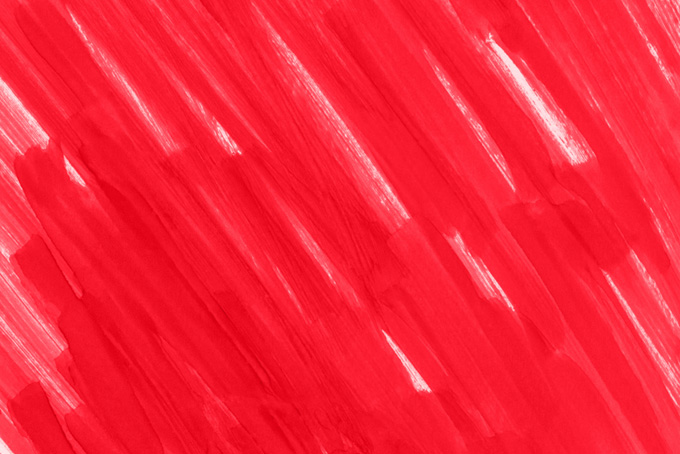
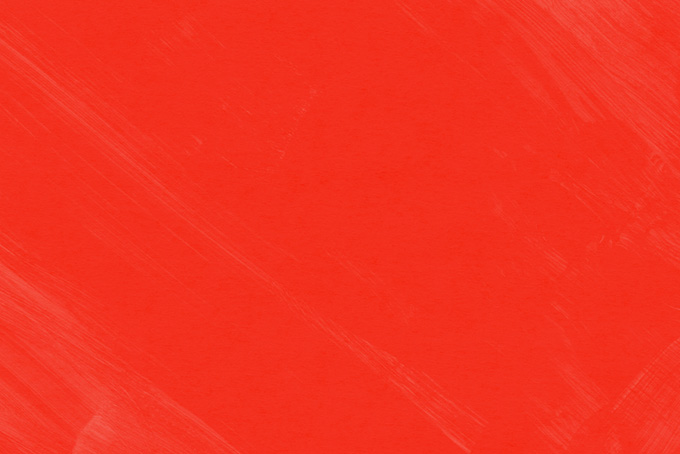
ダッシュ攻撃の時攻撃範囲の描画

diff --git a/project/Application/objectos/Enemy/Enemy.cpp b/project/Application/objectos/Enemy/Enemy.cpp
@@ -8,6 +8,8 @@ void Enemy::Initialize() {
 	animation_ = std::make_unique<Animations>();
 	animation_.reset(Animations::Create("resources/Enemy", "Atlas_Monsters.png", "Alien2.gltf"));
 	impactModel_.reset(Model::CreateModelFromObj("resources/Enemy/impact.obj", "resources/white.png"));
+	areaModel_.reset(Model::CreateModelFromObj("resources/particle/plane.obj", "resources/Enemy/red_.png"));
+	areaModel_->DirectionalLight({ 1.0f, 1.0f, 1.0f, 1.0f }, { 0.0f, 2.0f, 0.0f }, 1.0f);
 	animationNumber_ = nomal;
 	// 初期化
 	worldTransformBase_.Initialize();
@@ -18,6 +20,10 @@ void Enemy::Initialize() {
 	worldTransformRock_.Initialize();
 	worldTransformRock_.scale = { 0.0f, 0.0f, 0.0f };
 	worldTransformRock_.translate.z = -15000.0f;
+	worldTransformArea_.Initialize();
+	worldTransformArea_.scale = { 4.0f,20.0f,1.0f };
+	worldTransformArea_.rotate = { -1.57f,0.0f,0.0f };
+	worldTransformArea_.translate.y = 0.1f;
 	worldTransformImpact_.Initialize();
 	for (int i = 0; i < 15; ++i) {
 		worldTransformColliderImpact_[i].Initialize();
@@ -100,6 +106,7 @@ void Enemy::Update() {
 	worldTransformBody_.TransferMatrix();
 	worldTransformRock_.UpdateMatrix();
 	worldTransformImpact_.UpdateMatrix();
+	worldTransformArea_.UpdateMatrix();
 	for (int i = 0; i < 15; ++i) {
 		worldTransformColliderImpact_[i].UpdateMatrix();
 		colliderManager_[i]->SetWorldTransform(worldTransformColliderImpact_[i]);
@@ -115,6 +122,7 @@ void Enemy::Update() {
 	animation_->AnimationDebug();
 	ImGui::SliderFloat3("pos", &worldTransformBody_.translate.x, -2.0f, 2.0f);
 	ImGui::SliderFloat3("rotato", &worldTransformBody_.rotate.x, -2.0f, 2.0f);
+	ImGui::DragFloat3("Area", &worldTransformArea_.translate.x, 0.1f);
 	ImGui::Text("time%d", time_);
 	ImGui::Text("Attack%d", isAttack_);
 	ImGui::Text("ImpactSize%f", worldTransformImpact_.scale.z);
@@ -127,6 +135,11 @@ void Enemy::Draw(const ViewProjection& camera) {
 		impactModel_->Draw(worldTransformImpact_, camera, true);
 		
 	}
+	
+	if (areaDraw_ && time_ < 60) {
+		areaModel_->Draw(worldTransformArea_, camera, true);
+	}
+
 	for (int i = 0; i < 15; ++i) {
 		//colliderManager_[i]->Draw(camera);
 	}
@@ -150,7 +163,7 @@ void Enemy::MoveUpdata() {
 
 void Enemy::AttackInitialize() {
 
-	int num = RandomGenerator::GetRandomInt(4, 4);
+	int num = RandomGenerator::GetRandomInt(2, 2);
 	if (num == 1) {
 		attackRequest_ = BehaviorAttack::kNomal;
 	}
@@ -214,7 +227,6 @@ void Enemy::NomalAttackInitialize() {
 	behaviorAttack_ = false;
 	time_ = 60 * 2;
 }
-
 void Enemy::NomalAttackUpdata() {
 	velocity_ = { 0.0f,0.0f,1.0f };
 	if (!behaviorAttack_) {
@@ -287,14 +299,22 @@ void Enemy::NomalAttackUpdata() {
 //ダッシュ攻撃//近いやつに攻撃するようにする
 void Enemy::DashAttackInitialize() {
 	num_ = RandomGenerator::GetRandomInt(1, 4);
-	time_ = 40;
-	animationNumber_ = runUp;
+	time_ = 100;
+	
 	animation_->SetLoop(false);
 	animation_->SetFlameTimer(40.0f);
-
+	
+	areaDraw_ = true;
+	
+	
 }
 void Enemy::DashAttackUpdata() {
 	--time_;
+	areaPos_ = { 0.0f,0.0f,0.0f };
+	if (time_ < 40 && time_ > 20) {
+		animationNumber_ = runUp;
+	}
+
 	if (time_ < 20) {
 		if (!isAttack_) {
 
@@ -337,20 +357,37 @@ void Enemy::DashAttackUpdata() {
 
 
 		velocity_ = { 0.0f,0.0f,7.0f };
+
+		
 	}
 
 	// 目標の方向に回転
 	worldTransformBase_.rotate.y = Math::LerpShortAngle(worldTransformBase_.rotate.y, destinationAngleY_, 0.2f);
-
+	worldTransformArea_.rotate.y = worldTransformBase_.rotate.y;
+	
+	if (!isAttack_) {
+		if (time_ > 40) {
+			areaPos_.z = 1.0f;
+			Matrix4x4 rotateMatrix = Math::MakeRotateYMatrix(worldTransformArea_.rotate.y);
+			areaPos_ = Math::Normalize(areaPos_);
+			areaPos_ = Math::Multiply(22, areaPos_);
+			areaPos_ = Math::TransformNormal(areaPos_, rotateMatrix);
+			worldTransformArea_.translate = { worldTransformBase_.translate.x + areaPos_.x,0.1f,worldTransformBase_.translate.z + areaPos_.z };
+		}
+	
+	}
+	
 	// 追従対象からロックオン対象へのベクトル
 	if (isAttack_) {
 
 		worldTransformBase_.translate = worldTransformBase_.translate + velocity_;
+		
 	}
 
 	if (time_ <= 0) {
 		worldTransformRock_.translate.z = 5;
 		behaviorRequest_ = Behavior::kRoot;
+		areaDraw_ = false;
 	}
 
 	worldTransformBase_.translate.y = 0.0f;

diff --git a/project/Application/scene/DebugScene.cpp b/project/Application/scene/DebugScene.cpp
@@ -50,11 +50,12 @@ void DebugScene::Initialize() {
 	worldTransformCollider2_.Initialize();
 	worldTransformCollider3_.Initialize();
 	worldTransformModel_.Initialize();
-	
+	worldTransformModel_.scale = { 6.0f,18.0f,0.0f };
+	worldTransformModel_.rotate = { -1.57f,0.0f,0.0f };
 
 	skybox_.reset(Skybox::Create("resources/skydome/skyCube.dds"));
 
-	model_.reset(Model::CreateModelFromObj("resources/Enemy/impact.obj","resources/white.png"));
+	model_.reset(Model::CreateModelFromObj("resources/particle/plane.obj","resources/Enemy/red_.png"));
 	loader_.reset(ModelLoader::Create("resources/JsonFile/loader.json"));
 
 	animation_ = std::make_unique<Animations>();
@@ -99,7 +100,8 @@ void DebugScene::Update() {
 	animation_->DirectionalLightDraw(directionLight_);
 	animation_->Update(AnimationNum_);
 	animation_->SetFlameTimer(animaflame_);
-	model_->SetColor({ 1.0f,1.0f,1.0f,a_});
+	model_->DirectionalLightDraw(directionLight_);
+	//model_->SetColor({ 1.0f,1.0f,1.0f,a_});
 	emitter_.count = particleCount_;
 	particle_->SetEmitter(emitter_);
 	if (particleFlag_) {

diff --git a/project/Application/objectos/Enemy/Enemy.h b/project/Application/objectos/Enemy/Enemy.h
@@ -125,12 +125,16 @@ private: // メンバ変数
 	WorldTransform worldTransformBody_;
 	WorldTransform worldTransformRock_;
 	WorldTransform worldTransformImpact_;
+	WorldTransform worldTransformArea_;
 	WorldTransform worldTransformColliderImpact_[15];
 	std::unique_ptr<ColliderManager> colliderManager_[15] = {};
 	std::unique_ptr<Animations>animation_;
 	int animationNumber_;
 
 	std::unique_ptr<Model> impactModel_;
+	std::unique_ptr<Model> areaModel_;
+	Vector3 areaPos_;
+	bool areaDraw_;
 
 	Vector3 playerPos_ = {};
 	Vector3 healerPos_ = {};
